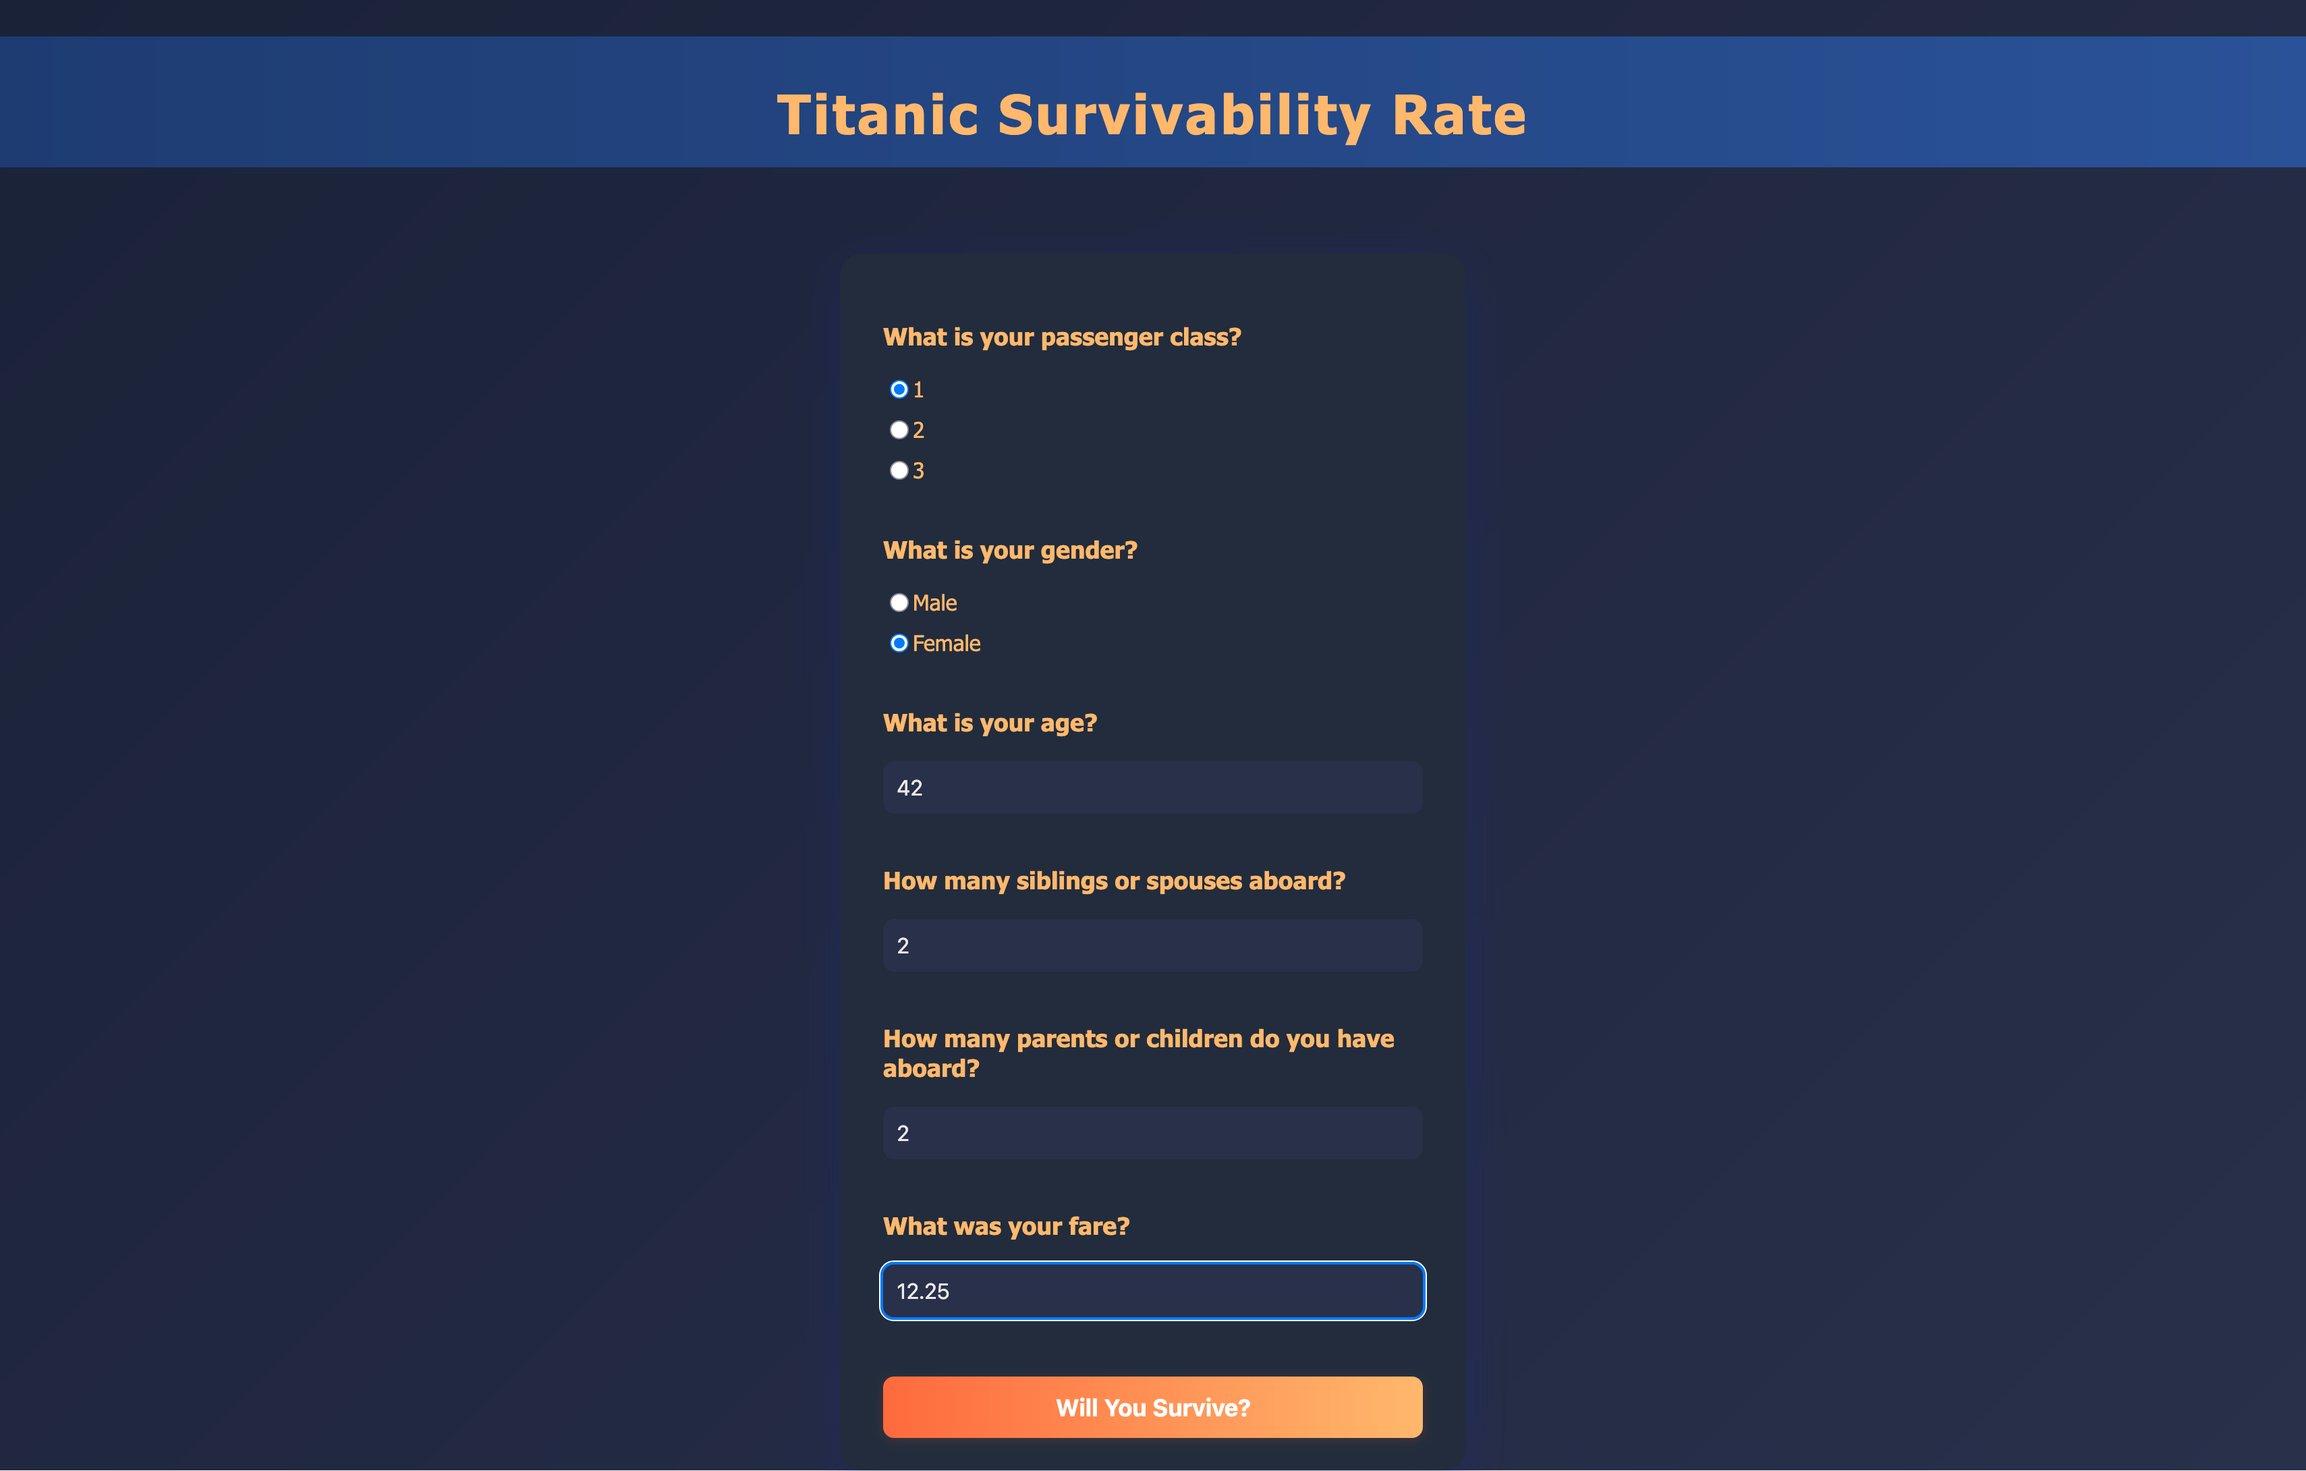
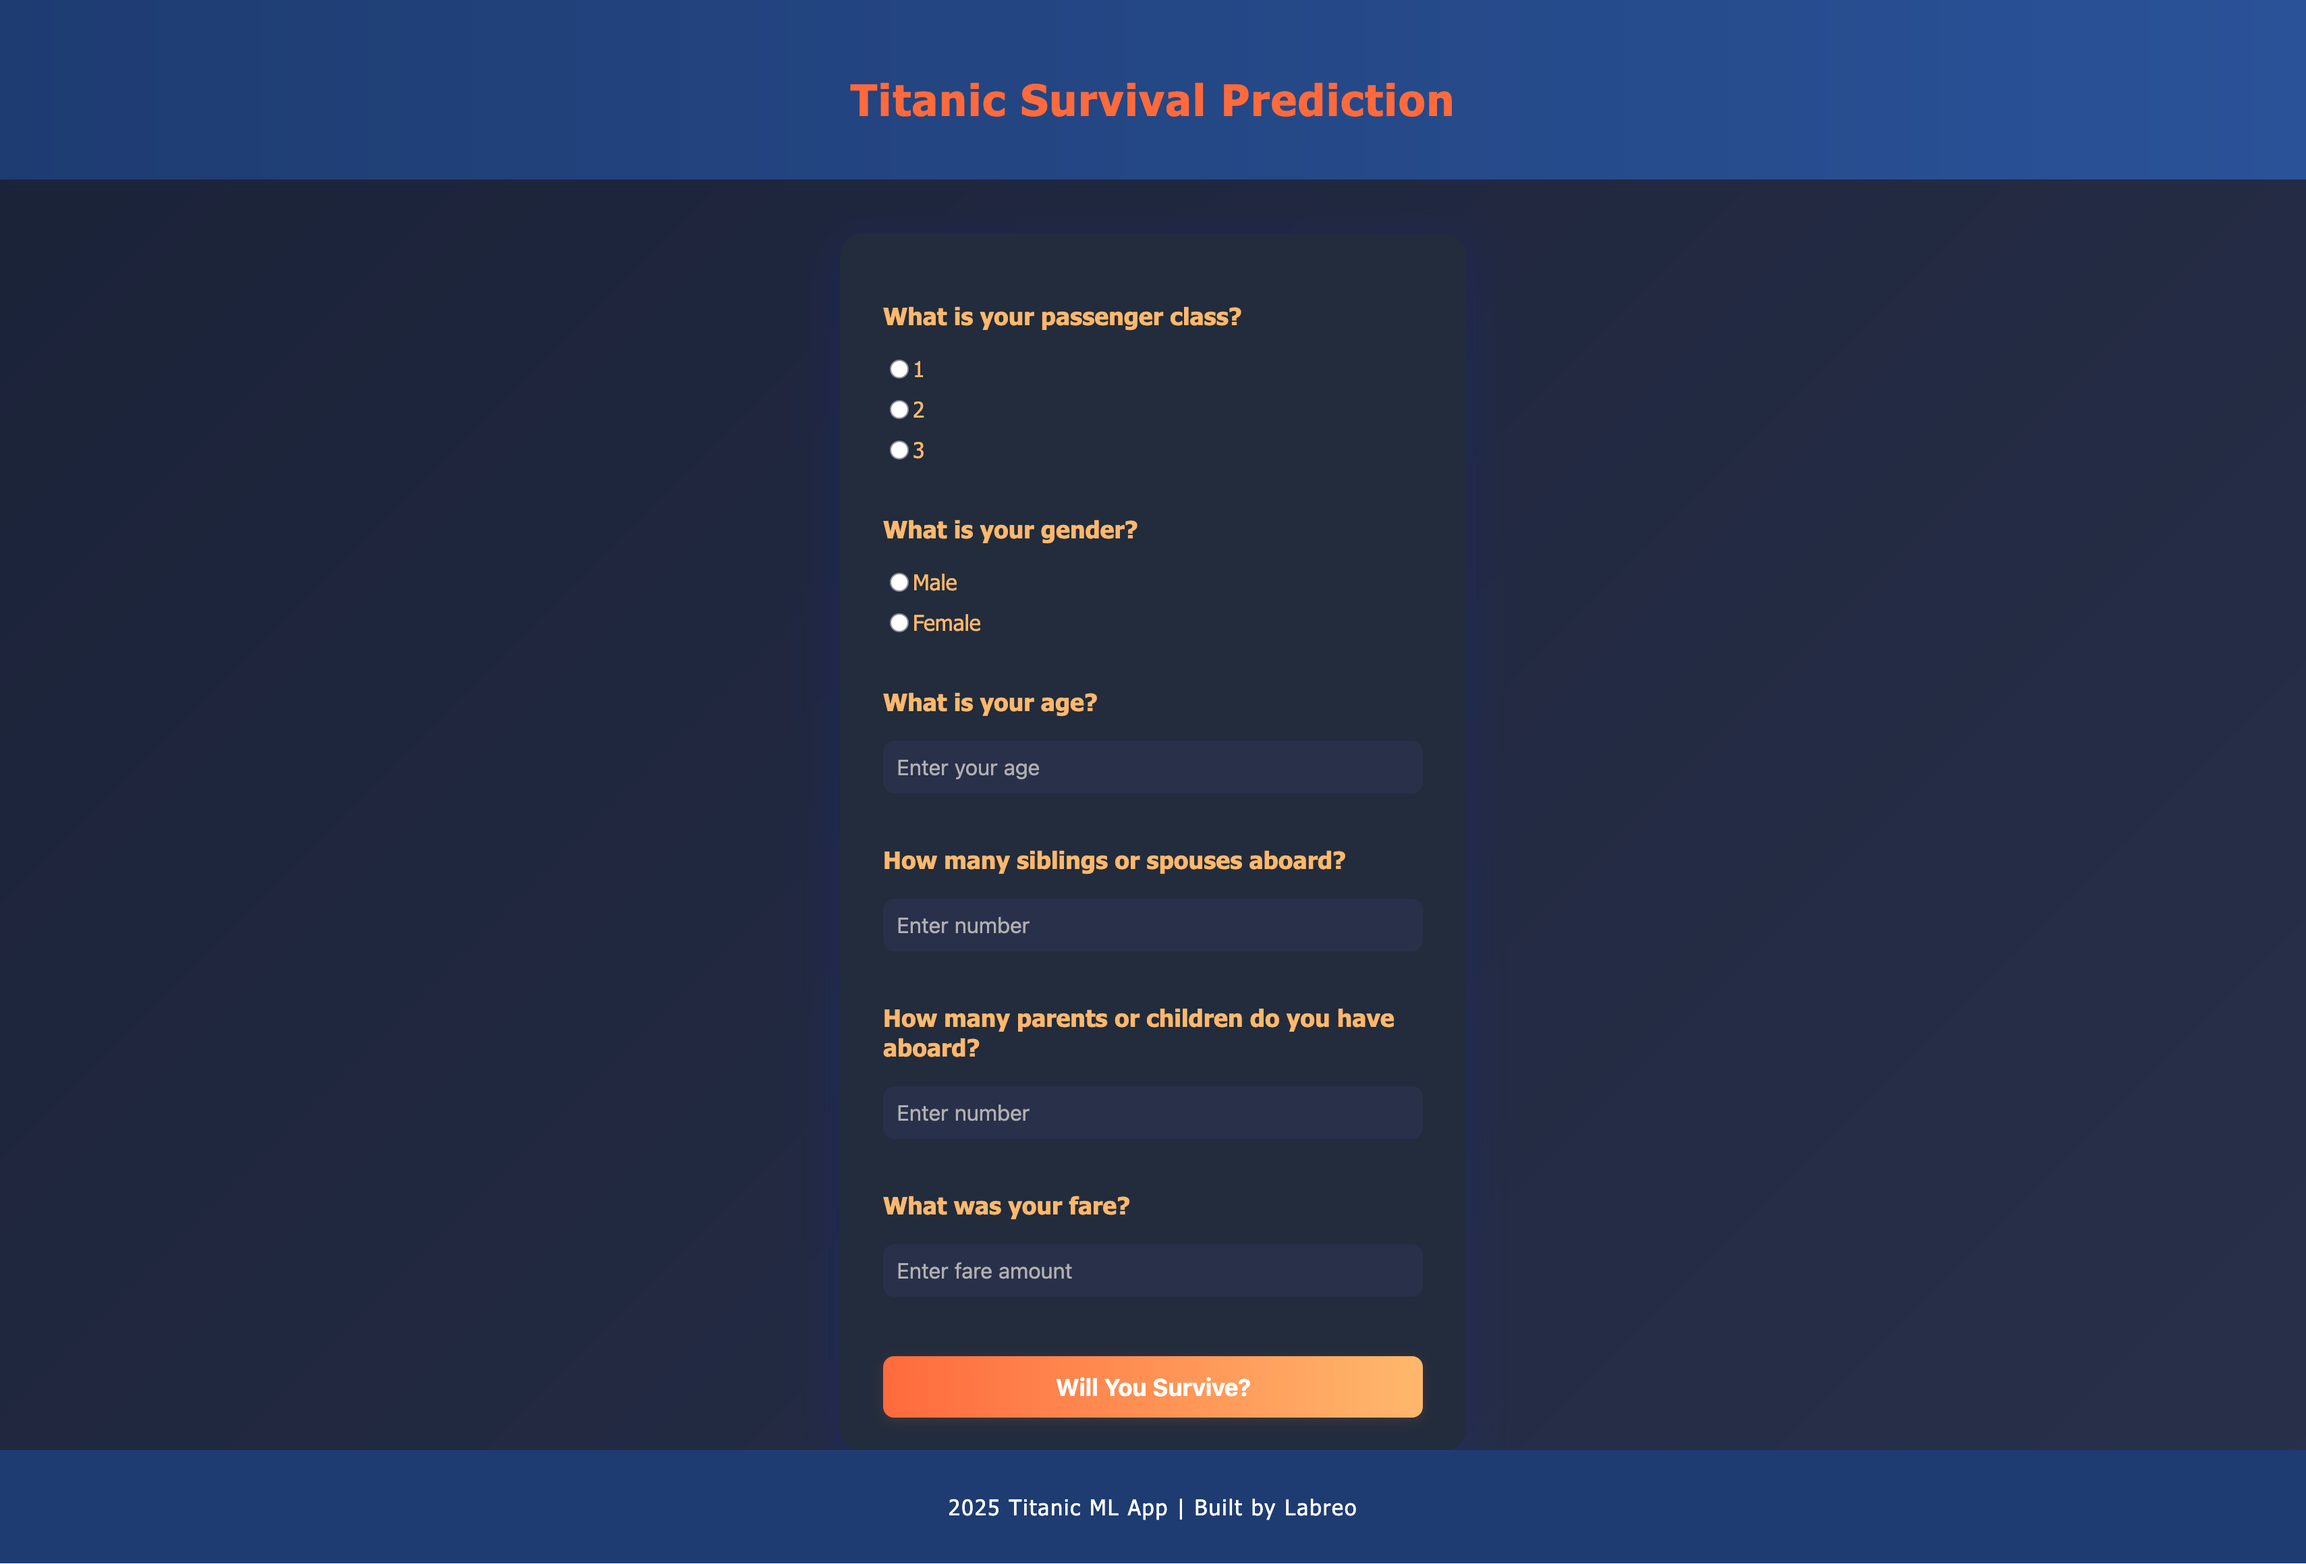
Coherence

diff --git a/templates/index.html b/templates/index.html
@@ -5,25 +5,28 @@
     <title>Titanic Prediction App</title>
     <meta name="viewport" content="width=device-width, initial-scale=1.0">
     <link rel="stylesheet" href="{{ url_for('static',filename='css/style.css') }}">
-    
 </head>
 <body>
 
+    <!-- App Title -->
     <div class="appname textclr">
         <h1>Titanic Survival Prediction</h1>
     </div>
 
     <main>
-        <div class="news-section">
+
+        <!-- Project Intro -->
+        <section class="news-section">
             <h2 class="news-sec-head darkgreen">Why Titanic Dataset?</h2>
             <div class="news" style="background-image: url('https://upload.wikimedia.org/wikipedia/commons/f/fd/RMS_Titanic_3.jpg');">
                 <p id="news-title">A historic dataset used to predict passenger survival using machine learning.</p>
             </div>
-        </div>
+        </section>
 
-        <div class="info-section">
+        <!-- App Purpose & Features -->
+        <section class="info-section">
             <div class="info-desc textclr">
-                <h4 class="darkgreen">What is This App?</h4>
+                <h4 class="darkgreen">🧠 What is This App?</h4>
                 <p>This app analyzes data from the Titanic disaster and uses machine learning to predict survival outcomes.</p>
                 
                 <div class="question">📊 Features used:</div>
@@ -31,27 +34,55 @@
                     <li>Passenger Class (Pclass)</li>
                     <li>Sex & Age</li>
                     <li>Fare</li>
-                    <li>Relatives Aboard</li>
+                    <li>Number of Relatives Aboard (SibSp + Parch)</li>
                 </ul>
 
                 <div class="question">🔍 What You’ll Learn:</div>
                 <ul>
-                    <li>Data Preprocessing & Cleaning</li>
-                    <li>Feature Engineering</li>
-                    <li>Model Training & Evaluation</li>
+                    <li>Data Cleaning & Preprocessing</li>
+                    <li>Feature Engineering & Encoding</li>
+                    <li>Model Selection (Logistic Regression, Random Forest)</li>
+                    <li>Accuracy & Evaluation Metrics</li>
                 </ul>
 
-            
+                <div class="question">⚙ Tech Stack Used:</div>
+                <ul>
+                    <li>Frontend: HTML, CSS</li>
+                    <li>Backend: Python (Flask)</li>
+                    <li>ML Models: Scikit-learn</li>
+                    <li>Deployment: (Optional) Docker / Heroku / GCP</li>
+                </ul>
+
+                <div class="question">📈 Model Accuracy:</div>
+                <ul>
+                    <li>Logistic Regression: ~78.5%</li>
+                    <li>Random Forest: ~81%</li>
+                </ul>
+
+                <!-- Call to action -->
                 <div class="question">🚀 Ready to Predict?</div>
                 <form action="{{ url_for('questions') }}">
-    <button type="submit">Start Predicating</button>
-</form>
+                    <button type="submit">Start Predicting</button>
+                </form>
             </div>
-        </div>
+        </section>
+
+        <!-- About Titanic -->
+        <section class="info-section textclr">
+            <h4 class="darkgreen">🧊 The Titanic Tragedy</h4>
+            <p>The RMS Titanic sank on April 15, 1912, after hitting an iceberg. Over 1,500 of the 2,224 passengers and crew died. This dataset allows us to explore survival patterns based on age, gender, class, and more.</p>
+        </section>
+
+        <!-- Disclaimer -->
+        <section class="info-section textclr">
+            <h4 class="darkgreen">⚠ Disclaimer</h4>
+            <p>This project is for educational purposes only. Predictions are based on historical data and simplified models. It does not reflect real-life decision-making complexity or accuracy.</p>
+        </section>
+
     </main>
 
     <footer>
-        <p>© 2025 Titanic ML App | Kanak Waradkar</p>
+        <p>2025 Titanic ML App | Built by Labreo</p>
     </footer>
 
 </body>

diff --git a/templates/questions.html b/templates/questions.html
@@ -8,7 +8,9 @@
 </head>
 
 <body>
-  <h1 class="appname textclr">Titanic Survivability Rate</h1>
+  <div class="appname textclr">
+        <h1>Titanic Survival Prediction</h1>
+    </div>
 
   <main class="login">
     <form id="predictForm">
@@ -71,6 +73,8 @@
     document.getElementById("popup").style.display = "none";
   }
 </script>
-
+<footer>
+        <p>2025 Titanic ML App | Built by Labreo</p>
+    </footer>
 </body>
 </html>

diff --git a/static/css/style.css b/static/css/style.css
@@ -69,7 +69,7 @@ main {
     background-size: cover;
     background-position: center;
     border-radius: 12px;
-    min-height: 180px;
+    min-height: 250px;
     display: flex;
     align-items: flex-end;
     padding: 1.2rem;

diff --git a/README.md b/README.md
@@ -58,6 +58,10 @@ titanic-ml/
 ├── app.py
 ├── data
 │   └── titanic.csv
+├─ images
+│   ├── image-1.png
+│   ├── image-2.png
+│   └── image.png
 ├── makefile
 ├── models
 │   └── model.pkl
@@ -179,7 +183,7 @@ jobs:
 
 - [GitHub Actions Docs](https://docs.github.com/en/actions)
 - [Docker Docs](https://docs.docker.com/)
-- [GCP Getting Started](https://cloud.google.com/gcp/get-started)
+- [GCP Getting Started](https://cloud.google.com/docs/tutorials?doctype=quickstart)
 - [Stackdriver Logging](https://cloud.google.com/logging)
 
 ---
